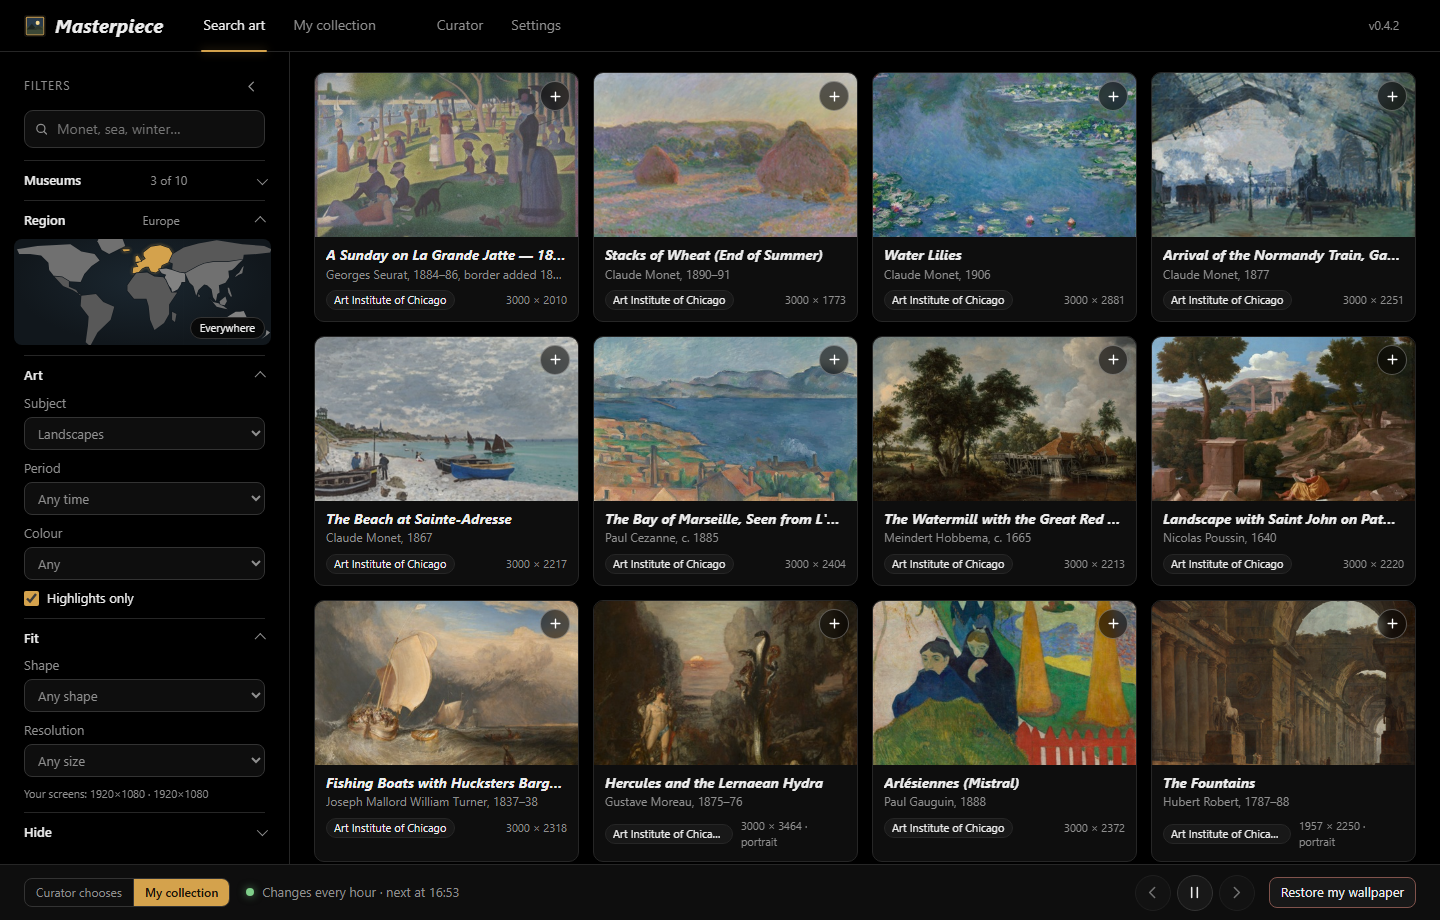
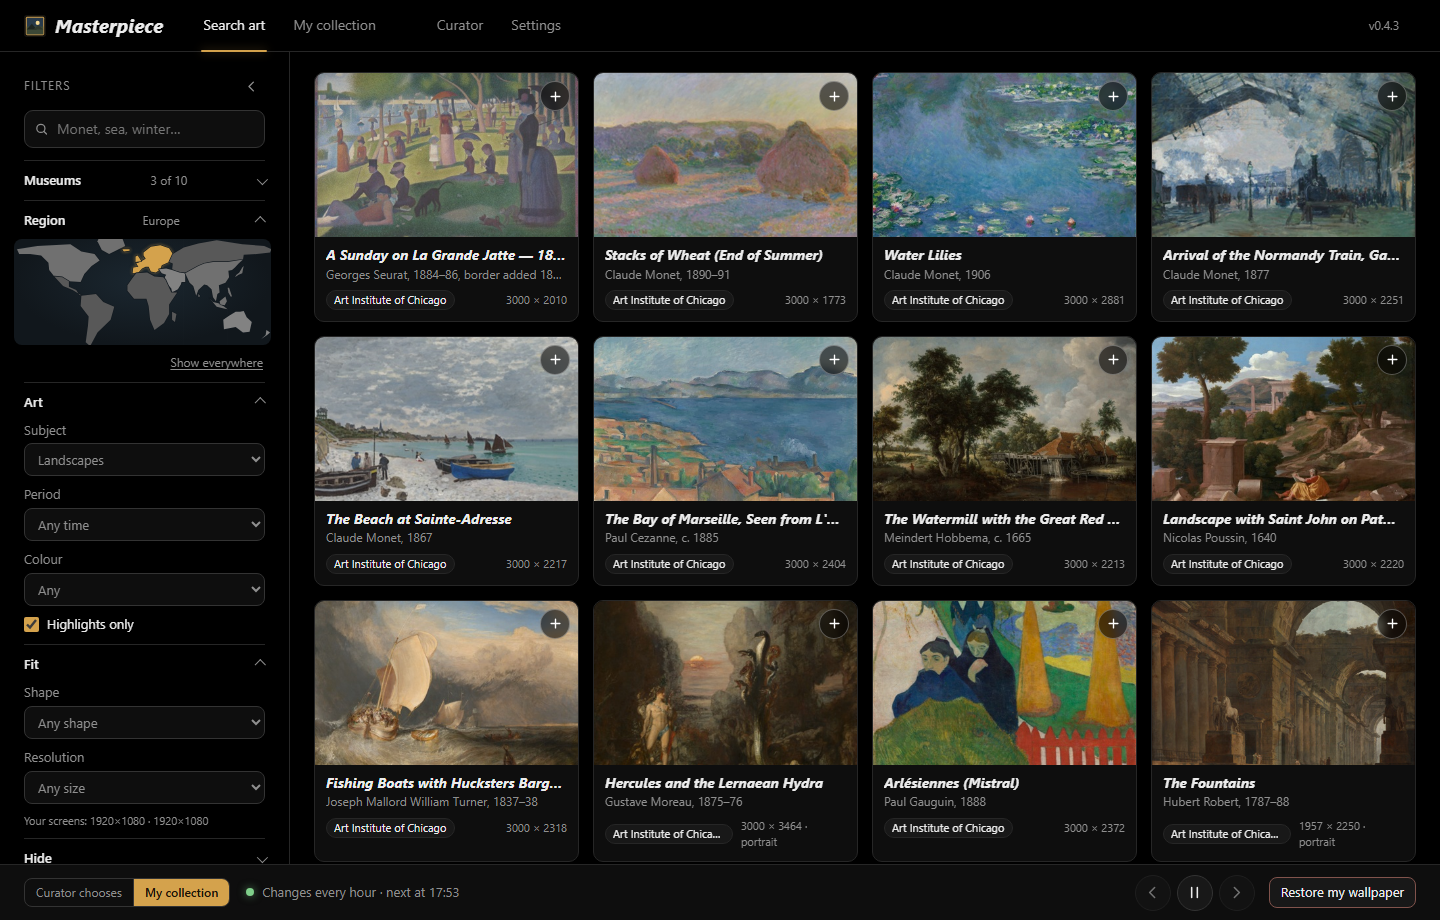
0.4.3: Russian and Oceania paintings load again
- Wikimedia renders rarely viewed thumbnails on request and refused our
  bursts (HTTP 429): one Wikimedia image a second, at most one at a time
- After "too many requests" a server is left alone for as long as it asks
  (Retry-After, else a minute) instead of being asked again at once
- The grid loads Wikimedia pictures through their own small queue (only
  those near the screen), so other museums' pictures don't wait; a
  picture that couldn't load tries again later
- Region note says which museums have paintings from there (short)
- "Show everywhere" sits below the map instead of on New Zealand
- README screenshot remade (screenshot.py now warms up first)

diff --git a/masterpiece/web/app.js b/masterpiece/web/app.js
@@ -323,10 +323,11 @@ function showErrors() {
   const notice = $("notice");
   notice.textContent = parts.join(" · ");
   notice.hidden = !parts.length;
-  const skipped = [...state.skipped].map(sourceName);
-  $("regionNote").textContent = skipped.length
-    ? `Not searched for ${state.regions.size > 1 ? "these regions" : "this region"}: ${skipped.join(", ")} (little or nothing from there).` : "";
-  $("regionNote").hidden = !skipped.length;
+  // say which museums have paintings from the chosen regions (short), not which ones don't
+  const searched = state.sources.filter((s) => s.enabled && !state.skipped.has(s.key)).map((s) => s.name);
+  $("regionNote").textContent = state.skipped.size
+    ? `From ${state.regions.size > 1 ? "these regions" : "here"}: ${searched.join(", ") || "none of the chosen museums"}` : "";
+  $("regionNote").hidden = !state.skipped.size;
 }
 
 function finishSearch(added, scanned) {
@@ -346,13 +347,48 @@ function finishSearch(added, scanned) {
 function setStatus(t) { $("status").textContent = t; }
 
 // ------------------------------------------------------------------ grid
+// Wikimedia makes rarely viewed thumbnails on request and allows about one a second, so its
+// pictures load through a small queue of their own (only the ones near the screen): they never
+// hold up the other museums' pictures, which load as usual.
+const SLOW_HOSTS = /^https:\/\/upload\.wikimedia\.org\//;
+const slowQueue = [];
+let slowBusy = 0;
+const slowSeen = new IntersectionObserver((entries) => {
+  for (const e of entries) {
+    if (!e.isIntersecting) continue;
+    slowSeen.unobserve(e.target);
+    slowQueue.push(e.target);
+  }
+  pumpSlow();
+}, { rootMargin: "400px" });
+
+function pumpSlow() {
+  while (slowBusy < 2 && slowQueue.length) {
+    const im = slowQueue.shift();
+    if (!im.isConnected) continue;
+    slowBusy++;
+    const done = () => { slowBusy--; pumpSlow(); };
+    im.addEventListener("load", done, { once: true });
+    im.addEventListener("error", done, { once: true });
+    im.src = im.dataset.src;
+  }
+}
+
+function thumbImg(a) {
+  const url = a.thumbUrl || a.previewUrl;
+  const im = el("img", { alt: a.title, decoding: "async", onerror: retryImage });
+  if (SLOW_HOSTS.test(url)) { im.dataset.src = img(url); slowSeen.observe(im); }
+  else { im.loading = "lazy"; im.src = img(url); }
+  return im;
+}
+
 function card(a) {
   const sel = state.selected.has(a.id);
   return el("article", { class: `card${sel ? " selected" : ""}`, "data-id": a.id },
     el("button", {
       type: "button", class: "thumb", title: "Preview",
       onclick: () => openLightbox(currentList().findIndex((x) => x.id === a.id)),
-    }, el("img", { src: img(a.thumbUrl || a.previewUrl), alt: a.title, loading: "lazy", decoding: "async" })),
+    }, thumbImg(a)),
     ...(state.saved.has(a.id) ? [savedBadge()] : []),
     el("button", { type: "button", class: "icon-btn pick", onclick: () => toggle(a) }),
     el("div", { class: "body" },
@@ -527,6 +563,15 @@ async function loadHighRes(id, url) {
 function step(d) {
   const n = state.lbIndex + d;
   if (n >= 0 && n < currentList().length) openLightbox(n);
+}
+
+// A picture the museum wouldn't send yet (it asked us to slow down) tries again later, twice.
+function retryImage(e) {
+  const im = e.target, n = Number(im.dataset.retry || 0);
+  if (n >= 2) return;
+  im.dataset.retry = String(n + 1);
+  const src = im.src.replace(/&r=\d+$/, "");
+  setTimeout(() => { if (im.isConnected) im.src = `${src}&r=${n + 1}`; }, n ? 60000 : 25000);
 }
 
 // ------------------------------------------------------------------ init

diff --git a/masterpiece/web/styles.css b/masterpiece/web/styles.css
@@ -221,8 +221,7 @@ label { color: var(--muted); font-size: 13px; }
 #worldMap .name { display: none; }
 .map-tip { position: absolute; left: 0; top: 0; padding: 4px 9px; border-radius: 6px; font-size: 12px; pointer-events: none;
   color: var(--text); background: var(--tip-bg); border: 1px solid var(--line-2); white-space: nowrap; }
-.map-clear { position: absolute; right: 6px; bottom: 6px; padding: 2px 9px; font-size: 11px; border-radius: 999px;
-  background: var(--tip-bg); }
+.map-clear { display: block; margin: 6px 0 0 auto; font-size: 12px; }
 
 /* ---------- cards */
 .grid { display: grid; gap: 14px; grid-template-columns: repeat(auto-fill, minmax(220px, 1fr)); }

diff --git a/masterpiece/web/index.html b/masterpiece/web/index.html
@@ -46,8 +46,8 @@
         <div class="map-wrap">
           <svg id="worldMap" viewBox="22 4 976 404" role="group" aria-label="World map: click regions to choose them"></svg>
           <div class="map-tip" id="mapTip" hidden></div>
-          <button type="button" class="map-clear" id="mapClear" hidden>Everywhere</button>
         </div>
+        <button type="button" class="link map-clear" id="mapClear" hidden>Show everywhere</button>
       </details>
 
       <details class="fgroup" open>

diff --git a/masterpiece/net.py b/masterpiece/net.py
@@ -43,20 +43,34 @@ HOST_LIMITS = {   # host: (max simultaneous, min seconds between requests)
     "manifests.collections.yale.edu": (2, 0.1),
     "data.getty.edu": (2, 0.1),
     "media.getty.edu": (2, 0.1),
-    "upload.wikimedia.org": (2, 0.1),
+    "upload.wikimedia.org": (1, 1.0),              # rare files are rendered on request: one a second
 }
 _host_slots: dict[str, "_Slot"] = {}
 _host_lock = threading.Lock()
 
 
+MAX_WAIT = 20          # wait at most this long for a server that asked us to slow down; else give up
+
+
 class _Slot:
-    def __init__(self, n: int, gap: float):
+    def __init__(self, host: str, n: int, gap: float):
+        self.host = host
         self.sem = threading.BoundedSemaphore(n)
         self.gap = gap
         self.last = 0.0
         self.lock = threading.Lock()
+        self.paused_until = 0.0
+
+    def pause(self, seconds: float) -> None:
+        """The server said "too many requests": leave it alone for a while."""
+        self.paused_until = max(self.paused_until, time.monotonic() + seconds)
 
     def __enter__(self):
+        rest = self.paused_until - time.monotonic()
+        if rest > MAX_WAIT:
+            raise Blocked(f"{self.host} asked us to slow down; trying again in {round(rest)} s")
+        if rest > 0:
+            time.sleep(rest)
         self.sem.acquire()
         if self.gap:
             with self.lock:
@@ -76,7 +90,7 @@ def _slot(url: str) -> _Slot:
     with _host_lock:
         if host not in _host_slots:
             n, gap = HOST_LIMITS.get(host, (MAX_PER_HOST, 0.0))
-            _host_slots[host] = _Slot(n, gap)
+            _host_slots[host] = _Slot(host, n, gap)
         return _host_slots[host]
 
 
@@ -99,6 +113,16 @@ def _request(url: str, *, params: dict | None = None, body: dict | None = None,
     return urllib.request.Request(url, data=data, headers=h, method="POST" if data else "GET")
 
 
+def _refused(url: str, e: urllib.error.HTTPError) -> Blocked:
+    """403/429: pause that server (as long as it asks, else a minute) and report it."""
+    try:
+        wait = float(e.headers.get("Retry-After") or 60)
+    except (TypeError, ValueError):
+        wait = 60.0
+    _slot(url).pause(min(max(wait, 10.0), 600.0))
+    return Blocked(f"{urllib.parse.urlsplit(url).hostname} is limiting requests right now (HTTP {e.code})")
+
+
 def get_json(url: str, *, params: dict | None = None, body: dict | None = None,
              timeout: float = TIMEOUT) -> dict:
     try:
@@ -106,11 +130,16 @@ def get_json(url: str, *, params: dict | None = None, body: dict | None = None,
             return json.loads(r.read().decode("utf-8"))
     except urllib.error.HTTPError as e:
         if e.code in (403, 429):
-            raise Blocked(f"{urllib.parse.urlsplit(url).hostname} is limiting requests right now (HTTP {e.code})") from e
+            raise _refused(url, e) from e
         raise
 
 
 def fetch(url: str, *, timeout: float = 60) -> tuple[bytes, str]:
     """Return (content, content_type)."""
-    with _slot(url), urllib.request.urlopen(_request(url), timeout=timeout) as r:
-        return r.read(), r.headers.get("Content-Type", "application/octet-stream")
+    try:
+        with _slot(url), urllib.request.urlopen(_request(url), timeout=timeout) as r:
+            return r.read(), r.headers.get("Content-Type", "application/octet-stream")
+    except urllib.error.HTTPError as e:
+        if e.code == 429:
+            raise _refused(url, e) from e
+        raise

diff --git a/packaging/screenshot.py b/packaging/screenshot.py
@@ -40,11 +40,13 @@ def main() -> int:
     srv = server.make_server(0)
     threading.Thread(target=srv.serve_forever, daemon=True).start()
     try:
-        subprocess.run([EDGE, "--headless=new", "--disable-gpu", "--no-first-run", "--hide-scrollbars",
-                        f"--user-data-dir={tmp / 'edge'}", f"--window-size={SIZE[0]},{SIZE[1]}",
-                        "--virtual-time-budget=45000", f"--screenshot={OUT}",
-                        f"http://127.0.0.1:{srv.server_address[1]}/"], check=True, timeout=180,
-                       capture_output=True)
+        # twice: the first pass fetches every picture (the server keeps them), the second photographs
+        for shot in (tmp / "warm-up.png", OUT):
+            subprocess.run([EDGE, "--headless=new", "--disable-gpu", "--no-first-run", "--hide-scrollbars",
+                            f"--user-data-dir={tmp / 'edge'}", f"--window-size={SIZE[0]},{SIZE[1]}",
+                            "--virtual-time-budget=45000", f"--screenshot={shot}",
+                            f"http://127.0.0.1:{srv.server_address[1]}/"], check=True, timeout=180,
+                           capture_output=True)
     finally:
         srv.shutdown()
         srv.server_close()

diff --git a/tests/test_core.py b/tests/test_core.py
@@ -930,3 +930,26 @@ def test_release_notes_without_code_fences():
     r = update._parse({"tag_name": "v0.4.2", "body": "```\r\nNew look\r\n- Four tabs\r\n```", "draft": False,
                        "prerelease": False, "html_url": "https://x", "assets": [setup]})
     assert r["notes"] == "New look\r\n- Four tabs"
+
+
+def test_a_server_that_says_too_many_requests_is_left_alone(monkeypatch):
+    import email.message
+    import urllib.error
+    from masterpiece import net
+    monkeypatch.setattr(net, "_host_slots", {})
+    calls = []
+
+    def refuse(req, timeout=None):
+        calls.append(req.full_url)
+        h = email.message.Message()
+        h["Retry-After"] = "120"
+        raise urllib.error.HTTPError(req.full_url, 429, "Too many requests", h, None)
+
+    monkeypatch.setattr(net.urllib.request, "urlopen", refuse)
+    url = "https://upload.wikimedia.org/wikipedia/commons/thumb/a/ab/X.jpg/500px-X.jpg"
+    with pytest.raises(net.Blocked):
+        net.fetch(url)
+    with pytest.raises(net.Blocked):          # paused: fails at once, without asking Wikimedia again
+        net.fetch(url.replace("X.jpg", "Y.jpg"))
+    assert len(calls) == 1
+    assert net._slot(url).paused_until > 0

diff --git a/masterpiece/server.py b/masterpiece/server.py
@@ -21,7 +21,7 @@ from pathlib import Path
 
 from . import backup, cache, content, monitors, schedule, settings, sources, wallpaper
 from .models import Artwork
-from .net import fetch
+from .net import Blocked, fetch
 from .search import search_all
 
 WEB_DIR = Path(__file__).parent / "web"
@@ -142,6 +142,8 @@ class Handler(BaseHTTPRequestHandler):
                     return self._search(qs)
                 if url.path == "/api/img":
                     return self._img(qs.get("u", ""))
+            except Blocked as e:                      # a museum asked us to slow down: no trace, just say so
+                return self._error(503, str(e))
             except Exception as e:
                 import traceback
                 traceback.print_exc()

diff --git a/masterpiece/__init__.py b/masterpiece/__init__.py
@@ -1,6 +1,6 @@
 """Masterpiece — public-domain paintings as your Windows wallpaper."""
 
-__version__ = "0.4.2"
+__version__ = "0.4.3"
 APP_NAME = "Masterpiece"
 # GitHub "owner/repository" whose Releases hold the Setup.exe updates ("" = no update checks)
 UPDATE_REPO = "Teun-sudo1/Masterpiece"
